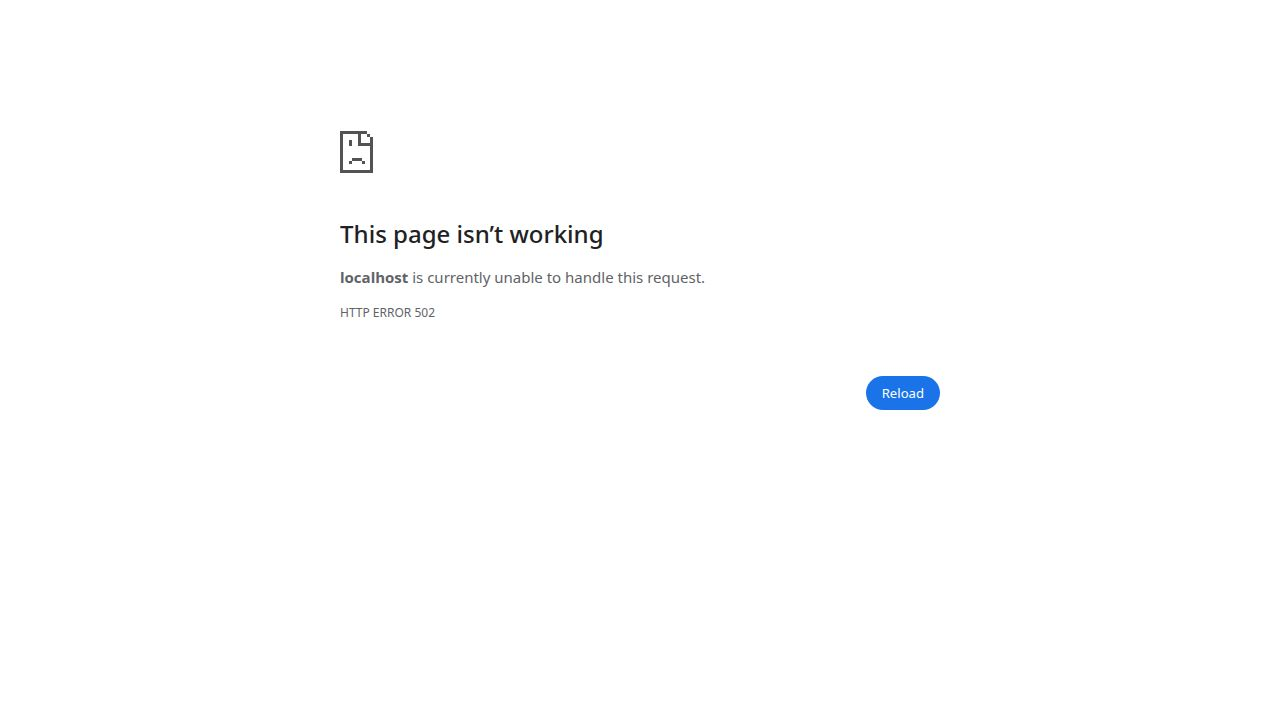
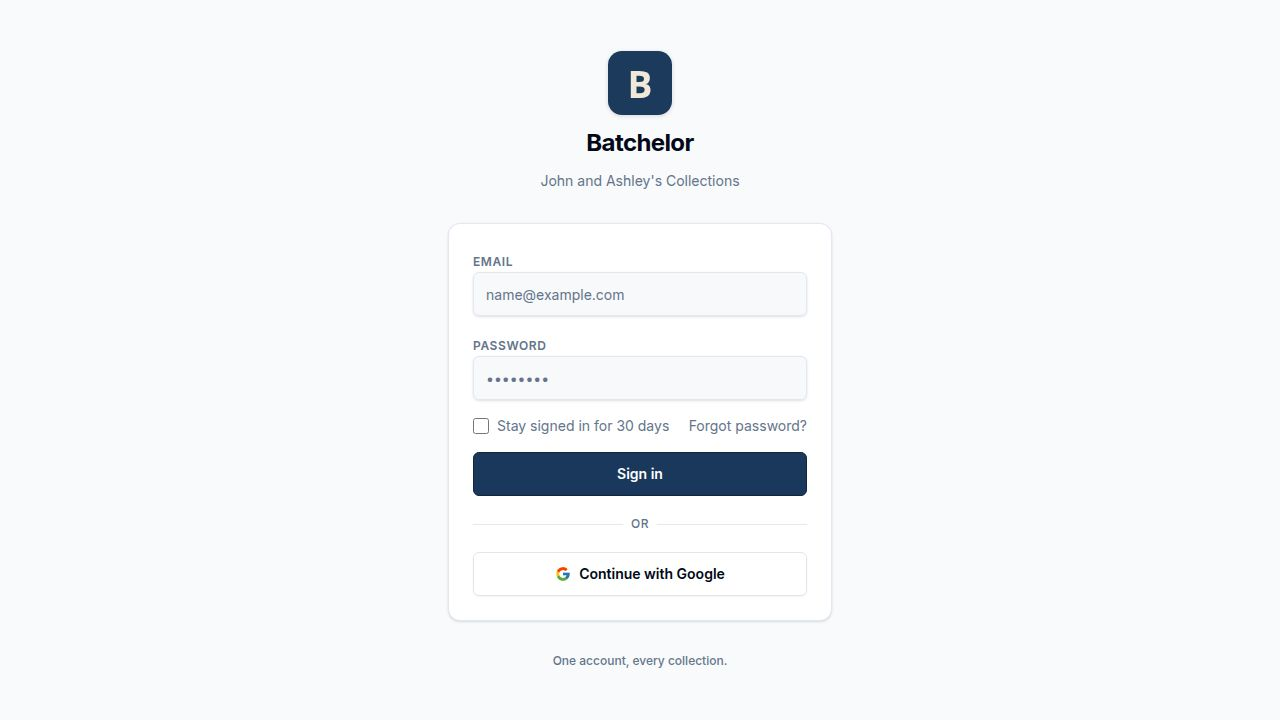
Sync Replit -> GitHub: reconcile AgentPhone/SMS feature and misc drift
GitHub main had fallen behind the Replit workspace (missing the AgentPhone
  SMS/voice integration: agentphone schema/routes, smsOptedOutAt column,
  agentphoneWebhookSecret config, world map + auth/app.ts updates, and a few
  other files). This reconciles GitHub main to match the current Replit
  working tree exactly for these paths so CI (Typecheck/Lint) reflects the
  real, current app state. No functional changes beyond bringing GitHub back
  in sync with what is already deployed/running in Replit.

diff --git a/artifacts/travels/src/pages/WorldMap.tsx b/artifacts/travels/src/pages/WorldMap.tsx
@@ -179,8 +179,6 @@ function MapPanel({
     if (!map || isLoading || !mapReady) return;
 
     let markers: google.maps.marker.AdvancedMarkerElement[] = [];
-    let arcs: google.maps.Polyline[] = [];
-    let animInterval: ReturnType<typeof setInterval> | null = null;
     let dataLayer: google.maps.Data | null = null;
     let infoWindow: google.maps.InfoWindow | null = null;
     let heatmapLayer: { setMap: (m: google.maps.Map | null) => void } | null =
@@ -347,68 +345,6 @@ function MapPanel({
           markers.push(marker);
         });
 
-      // ── Animated geodesic arcs between consecutive completed/booked trips ────
-      // Sort completed AND booked trips with coords chronologically, then
-      // connect each adjacent pair with an animated dashed polyline.
-      const completedWithCoords = trips
-        .filter(
-          (t) =>
-            (t.status === "completed" || t.status === "booked") &&
-            t.lat != null &&
-            t.lng != null &&
-            t.startDate,
-        )
-        .sort(
-          (a, b) =>
-            new Date(a.startDate!).getTime() - new Date(b.startDate!).getTime(),
-        );
-
-      if (completedWithCoords.length > 1) {
-        const arrowSymbol: google.maps.Symbol = {
-          path: google.maps.SymbolPath.FORWARD_OPEN_ARROW,
-          strokeOpacity: 0.85,
-          scale: 3,
-          strokeColor: "#2563eb",
-        };
-        for (let i = 0; i < completedWithCoords.length - 1; i++) {
-          const t1 = completedWithCoords[i]!;
-          const t2 = completedWithCoords[i + 1]!;
-          // Skip same-location consecutive trips (arc would collapse to a dot)
-          if (t1.lat === t2.lat && t1.lng === t2.lng) continue;
-          const arc = new google.maps.Polyline({
-            path: [
-              { lat: t1.lat!, lng: t1.lng! },
-              { lat: t2.lat!, lng: t2.lng! },
-            ],
-            geodesic: true,
-            strokeColor: "#2563eb",
-            strokeOpacity: 0,
-            strokeWeight: 2,
-            icons: [{ icon: arrowSymbol, offset: "0%", repeat: "20px" }],
-            map,
-          });
-          arcs.push(arc);
-        }
-
-        // Animate: cycle the icon offset to make the dashes flow
-        if (arcs.length > 0) {
-          let count = 0;
-          animInterval = setInterval(() => {
-            count = (count + 1) % 200;
-            const pct = `${(count / 2).toFixed(1)}%`;
-            arcs.forEach((arc) => {
-              const icons = arc.get("icons") as
-                | google.maps.IconSequence[]
-                | undefined;
-              if (icons && icons[0]) {
-                icons[0].offset = pct;
-                arc.set("icons", icons);
-              }
-            });
-          }, 30);
-        }
-      }
-
       // ── HeatmapLayer — density of completed/booked destinations ──────────────
       // Loaded asynchronously so it doesn't block marker rendering. Each visited
       // location contributes one data point per trip, so repeat-visit cities
@@ -479,9 +415,6 @@ function MapPanel({
       return () => {
         heatmapCancelled = true;
         heatmapLayer?.setMap(null);
-        if (animInterval != null) clearInterval(animInterval);
-        arcs.forEach((a) => a.setMap(null));
-        arcs = [];
         dataLayer?.setMap(null);
         markers.forEach((m) => (m.map = null));
         markers = [];
@@ -495,8 +428,6 @@ function MapPanel({
       );
       return () => {
         heatmapLayer?.setMap(null);
-        if (animInterval != null) clearInterval(animInterval);
-        arcs.forEach((a) => a.setMap(null));
         dataLayer?.setMap(null);
         markers.forEach((m) => (m.map = null));
         infoWindow?.close();

diff --git a/lib/db/src/schema-statements.ts b/lib/db/src/schema-statements.ts
@@ -1019,6 +1019,28 @@ export const STATEMENTS: string[] = [
   `ALTER TABLE phone_verification_codes ENABLE ROW LEVEL SECURITY`,
   `CREATE INDEX IF NOT EXISTS phone_verification_codes_user_id_idx ON phone_verification_codes (user_id)`,
 
+  // A2P 10DLC compliance: set when this number replies STOP/STOPALL/
+  // UNSUBSCRIBE/CANCEL/END/QUIT via the AgentPhone webhook; cleared on
+  // START/UNSTOP/YES. Every outbound SMS send path must skip a set number.
+  `ALTER TABLE app_users ADD COLUMN IF NOT EXISTS sms_opted_out_at TIMESTAMPTZ`,
+
+  // ── AgentPhone webhook (SMS/voice) — rolling conversation + dedup log ──────
+  `CREATE TABLE IF NOT EXISTS agentphone_conversations (
+    id           SERIAL PRIMARY KEY,
+    phone_number TEXT NOT NULL UNIQUE,
+    user_id      INTEGER NOT NULL,
+    messages     JSONB NOT NULL DEFAULT '[]'::jsonb,
+    updated_at   TIMESTAMPTZ NOT NULL DEFAULT NOW()
+  )`,
+  `ALTER TABLE agentphone_conversations ENABLE ROW LEVEL SECURITY`,
+  `CREATE TABLE IF NOT EXISTS agentphone_webhook_deliveries (
+    id          TEXT PRIMARY KEY,
+    received_at TIMESTAMPTZ NOT NULL DEFAULT NOW()
+  )`,
+  `ALTER TABLE agentphone_webhook_deliveries ENABLE ROW LEVEL SECURITY`,
+  `CREATE INDEX IF NOT EXISTS agentphone_webhook_deliveries_received_at_idx
+     ON agentphone_webhook_deliveries (received_at)`,
+
   // travels_reminders.sms_recipient_user_ids: app_users.id values (must have a
   // verified phone number) who should also get an SMS alert for this
   // reminder, alongside/instead of the email recipients above.

diff --git a/artifacts/api-server/src/routes/auth.ts b/artifacts/api-server/src/routes/auth.ts
@@ -36,7 +36,11 @@ import {
   sendTestEmail,
   resendConfigured,
 } from "../lib/email";
-import { sendSms, SmsRegistrationPendingError } from "../lib/sms";
+import {
+  sendSms,
+  SmsRegistrationPendingError,
+  SmsOptedOutError,
+} from "../lib/sms";
 import { runReminderAlerts } from "../lib/reminder-scheduler";
 
 const LOGIN_PATH = "/login";
@@ -365,6 +369,13 @@ router.post(
         });
         return;
       }
+      if (err instanceof SmsOptedOutError) {
+        res.status(409).json({
+          error:
+            "This phone number has opted out of texts (replied STOP). Reply START from that phone to resubscribe before verifying it.",
+        });
+        return;
+      }
       res.status(500).json({
         error: "Could not send the verification code. Please try again.",
       });
@@ -494,6 +505,13 @@ router.post(
         res.status(503).json({
           error:
             "SMS sending isn't enabled yet — AgentPhone's carrier (10DLC) registration is still pending. Your phone number is verified and ready; this will start working once registration completes.",
+        });
+        return;
+      }
+      if (err instanceof SmsOptedOutError) {
+        res.status(409).json({
+          error:
+            "This phone number has opted out of texts (replied STOP). Reply START from that phone to resubscribe.",
         });
         return;
       }

diff --git a/artifacts/api-server/src/app.ts b/artifacts/api-server/src/app.ts
@@ -40,6 +40,17 @@ app.use(
 );
 
 app.use("/api/quilting/blocks/detect-seams", express.json({ limit: "5mb" }));
+// AgentPhone webhook signatures are HMAC'd over the raw request body, so the
+// exact bytes must be captured before body-parser reformats them as JSON.
+app.use(
+  "/api/agentphone/webhook",
+  express.json({
+    limit: "64kb",
+    verify: (req, _res, buf) => {
+      (req as Request & { rawBody?: Buffer }).rawBody = Buffer.from(buf);
+    },
+  }),
+);
 app.use(express.json({ limit: "16kb" }));
 app.use(express.urlencoded({ extended: true, limit: "16kb" }));
 app.use(cookieParser(env.sessionSecret));

diff --git a/artifacts/quilting/src/pages/blocks/designer.tsx b/artifacts/quilting/src/pages/blocks/designer.tsx
@@ -101,7 +101,10 @@ import {
   getGetBlockQueryKey,
   useListFabrics,
 } from "@workspace/api-client-react";
-import type { QuiltingCategory, QuiltingBlock } from "@workspace/api-client-react";
+import type {
+  QuiltingCategory,
+  QuiltingBlock,
+} from "@workspace/api-client-react";
 import { TagSelector } from "@/components/tag-selector";
 import { cn } from "@/lib/utils";
 import { useQueryClient } from "@tanstack/react-query";
@@ -4037,9 +4040,7 @@ export default function BlockDesigner() {
       {templateMode && (
         <div className="flex shrink-0 items-center gap-2 border-b bg-muted/10 px-3 py-1.5">
           <Tag className="h-3.5 w-3.5 shrink-0 text-muted-foreground" />
-          <Label className="shrink-0 text-xs text-muted-foreground">
-            Tags
-          </Label>
+          <Label className="shrink-0 text-xs text-muted-foreground">Tags</Label>
           <Input
             value={templateTagsInput}
             onChange={(e) => setTemplateTagsInput(e.target.value)}

diff --git a/artifacts/api-server/src/lib/env.ts b/artifacts/api-server/src/lib/env.ts
@@ -31,4 +31,9 @@ export const env = {
   // if both are somehow set there (see routes/dev-screenshot-login.ts).
   screenshotAuthToken: optional("SCREENSHOT_AUTH_TOKEN"),
   agentLoginEmail: optional("AGENT_LOGIN_EMAIL"),
+  // Shared secret from AgentPhone's webhook configuration screen, used to
+  // verify the HMAC signature on inbound `/api/agentphone/webhook` requests.
+  // Optional at the env layer so the rest of the app boots fine without it —
+  // the webhook route itself returns 503 until this is set.
+  agentphoneWebhookSecret: optional("AGENTPHONE_WEBHOOK_SECRET"),
 };

diff --git a/lib/db/src/schema/users.ts b/lib/db/src/schema/users.ts
@@ -42,6 +42,11 @@ export const appUsers = pgTable("app_users", {
   // Required evidence for carrier campaign registration — never inferred,
   // only ever set by the send-code endpoint after `consent === true`.
   smsConsentAt: timestamp("sms_consent_at", { withTimezone: true }),
+  // A2P 10DLC compliance: set when this number replies STOP/STOPALL/
+  // UNSUBSCRIBE/CANCEL/END/QUIT to the AgentPhone webhook. While set, every
+  // outbound SMS send path (verification code, test SMS, reminder alerts)
+  // must skip this number. Cleared when the number replies START/UNSTOP/YES.
+  smsOptedOutAt: timestamp("sms_opted_out_at", { withTimezone: true }),
   createdAt: timestamp("created_at", { withTimezone: true })
     .defaultNow()
     .notNull(),

diff --git a/artifacts/api-server/src/routes/index.ts b/artifacts/api-server/src/routes/index.ts
@@ -9,6 +9,7 @@ import devScreenshotLoginRouter from "./dev-screenshot-login";
 import elaineRouter from "../elaine";
 import gmailRouter from "./gmail";
 import searchRouter from "./search";
+import agentphoneRouter from "./agentphone";
 
 const router: IRouter = Router();
 
@@ -21,6 +22,7 @@ router.use("/quilting", quiltingRouter);
 router.use("/travels", travelsRouter);
 router.use("/gmail", gmailRouter);
 router.use("/elaine", elaineRouter);
+router.use("/agentphone", agentphoneRouter);
 router.use(hubRouter);
 
 export default router;

diff --git a/lib/db/src/schema/index.ts b/lib/db/src/schema/index.ts
@@ -4,3 +4,4 @@ export * from "./quilting";
 export * from "./travels";
 export * from "./elaine";
 export * from "./gmail";
+export * from "./agentphone";

diff --git a/threat_model.md b/threat_model.md
@@ -15,6 +15,7 @@ The travels app also includes an opt-in Gmail scanning feature: each household m
 - **Application secrets** — Supabase service-role key, database credentials, session secret, OAuth client secrets, Resend credentials, and AI provider keys. Server-side secret compromise would expose all tenant data and storage.
 - **AI-backed compute and outbound integrations** — OpenAI/OpenRouter/Jina/Voyage calls, password-reset email delivery, Google OAuth exchanges, RSS fetching, and any server-side URL fetching. Abuse can create quota burn, SSRF-style internal access, or confidentiality leaks through third-party requests.
 - **Gmail OAuth tokens and inbox content** — per-user Gmail refresh/access tokens (`gmail.readonly` + `gmail.labels` scopes, separate grant from Calendar), plus any email subject/body/attachment content fetched during auto-scan or manual browsing. Compromise would expose a user's personal inbox contents, allow continued read access until the grant is revoked, and allow creation/application of the two server-managed labels ("Travel", "Batchelor App") on the user's own messages; leakage across users would violate the single-owner Gmail access guarantee even though trips are household-shared.
+- **AgentPhone webhook secret and SMS/voice channel** — a shared HMAC secret (`AGENTPHONE_WEBHOOK_SECRET`) authenticates inbound `agent.message` events for the household's one provisioned SMS/voice number. Compromise of the secret would let an attacker forge inbound messages/calls and reach the restricted Elaine action executor as an arbitrary phone-matched household member. The webhook also grants Elaine a narrow, non-destructive write capability over trips/reminders/packing lists purely from an unauthenticated phone channel (authenticated only by possession of a recognized phone number plus the shared webhook secret) — a materially weaker identity proof than the session-cookie login used everywhere else in the app.
 
 ## Trust Boundaries
 
@@ -27,12 +28,13 @@ The travels app also includes an opt-in Gmail scanning feature: each household m
 - **Household-sharing boundary** — pottery, quilting, and travels all intentionally expose shared household data across every authenticated user (full read/write/delete, not just read). Within travels this now explicitly includes trips, wishlist entries, photos, reminders, trip documents, custom document types, and calendar-derived trip suggestions (`travels_calendar_trip_suggestions`) — a suggestion sourced from one member's personal calendar scan is visible/dismissible/acceptable by any household member, since the suggestion itself is trip data, not the calendar connection. This shared-access model does not relax protections at the boundary itself: routes must still require a valid authenticated session (no unauthenticated access), storage objects must still be fetched only through server-side authenticated handlers, and OAuth tokens/connections (Google Calendar, Gmail) plus purely personal UI state (dashboard card layout/collapse prefs, account settings) remain single-owner and are never widened to household-shared even though the trip/collection data they relate to is shared. "Household-shared" means shared _among authenticated household accounts_, never shared with unauthenticated requests.
 - **Dev-only to production boundary** — `artifacts/mockup-sandbox/`, build outputs, and local tooling are out of production scope unless explicitly wired into the deployed artifact.
 - **API to Gmail** — the server holds per-user Gmail OAuth tokens and calls the Gmail API (search/fetch messages, fetch attachments, list/create/apply labels) on the connecting user's behalf. This boundary must never let one user's session or trip fetch another user's Gmail data, must validate OAuth state/tokens the same way as the existing Calendar grant, must not let inbox content (subjects/snippets/attachments) leak into another user's suggestions, logs, or AI prompts beyond what's needed for extraction, and the label-write capability must remain scoped to only the two server-managed labels on the connecting user's own messages — never message deletion/trash/content modification, and never triggered by anything other than the user's own explicit confirmation of an AI suggestion.
+- **AgentPhone to API** (`/api/agentphone/webhook`) — this is the only mounted route in the app that authenticates a request by something other than a session cookie or OAuth token: it trusts an HMAC-SHA256 signature (`X-Webhook-Signature: sha256=<hex>` over `{X-Webhook-Timestamp}.{raw body}`, keyed by `AGENTPHONE_WEBHOOK_SECRET`) plus a timestamp freshness check (rejects requests older than 5 minutes) and per-delivery dedup (`X-Webhook-ID`, recorded in `agentphone_webhook_deliveries` before any side effect, so a redelivered webhook is a no-op). Signature verification must run on the exact raw request bytes (captured via a path-scoped `express.json({verify})` mounted before the app-wide body parser), not a re-serialized body, or a byte-for-byte-different-but-semantically-equal payload could bypass the HMAC check. The webhook maps inbound SMS/voice to a household member purely by matching the caller's phone number against `app_users.phone_number` — there is no further per-message authentication, so this phone-number match is the full identity boundary for this channel; an unrecognized number gets no reply (SMS) or an immediate decline+hangup (voice) rather than any household data. Once matched, the webhook hands the message to a **restricted** Elaine turn (`runAgentphoneTurn`, `auto_run` mode) whose tool set is a hard allowlist of non-destructive travel actions (add/edit reminder, sync reminder to calendar, add/remove packing item, update trip status) — it must never gain access to the full in-app Elaine tool set (email sending, web search, document/photo actions, destructive deletes) without a deliberate, reviewed allowlist change. STOP/HELP/START (10DLC) keyword handling must run before any Elaine turn and must work for every inbound message regardless of phone-number recognition or current opt-out state, since it is a carrier compliance requirement, not an app feature.
 
 ## Scan Anchors
 
 - **Production entry points**: `artifacts/api-server/src/index.ts`, `artifacts/api-server/src/app.ts`, `artifacts/api-server/src/routes/**`
-- **Highest-risk code areas**: shared auth/session/password-reset flow, authentication enforcement on pottery/quilting/travels routes (all data is household-shared, not per-owner — the risk is unauthenticated access, not cross-account access), private image/storage access, AI-assisted import/analysis routes, hub RSS fetching, any raw SQL or external fetch logic, and Gmail OAuth/token storage + message/attachment fetching (which remain single-owner even though pottery/quilting/travels data is shared)
-- **Public surfaces**: `/api/healthz`, `/api/auth/login`, `/api/auth/forgot-password`, `/api/auth/reset-password`, `/api/auth/google`, `/api/auth/google/callback`, `/api/auth/providers`
+- **Highest-risk code areas**: shared auth/session/password-reset flow, authentication enforcement on pottery/quilting/travels routes (all data is household-shared, not per-owner — the risk is unauthenticated access, not cross-account access), private image/storage access, AI-assisted import/analysis routes, hub RSS fetching, any raw SQL or external fetch logic, Gmail OAuth/token storage + message/attachment fetching (which remain single-owner even though pottery/quilting/travels data is shared), and the AgentPhone webhook signature/replay verification plus its restricted-action allowlist (`artifacts/api-server/src/routes/agentphone.ts`, `runAgentphoneTurn` in `artifacts/api-server/src/elaine/index.ts`)
+- **Public surfaces**: `/api/healthz`, `/api/auth/login`, `/api/auth/forgot-password`, `/api/auth/reset-password`, `/api/auth/google`, `/api/auth/google/callback`, `/api/auth/providers`, `/api/agentphone/webhook` (unauthenticated by session, but signature-gated — see the AgentPhone trust boundary above)
 - **Authenticated surfaces**: `/api/pottery/**`, `/api/quilting/**`, `/api/travels/**` (including `/api/travels/gmail/**` and `/api/travels/settings`), `/api/hub/**`, `/api/auth/me`, `/api/auth/change-password`
 - **Usually dev-only**: `artifacts/mockup-sandbox/**`, generated `dist/**`, repo tooling/scripts unless they are reachable through deployed API behavior
 
@@ -40,20 +42,20 @@ The travels app also includes an opt-in Gmail scanning feature: each household m
 
 ### Spoofing
 
-The application relies on session cookies and shared account records to identify users across both apps. All protected endpoints must require a valid server-side session, session identifiers must be regenerated on login, OAuth callbacks must validate anti-CSRF state and Google ID tokens, and password-reset flows must not allow attackers to impersonate users through token reuse or enumeration. The Gmail OAuth flow follows the same pattern as Calendar: the `/api/travels/gmail/connect` → `/callback` round trip must validate a signed, single-use state cookie before exchanging the authorization code, so an attacker cannot force-link their own Gmail grant onto a victim's session (CSRF) or replay a stale callback.
+The application relies on session cookies and shared account records to identify users across both apps. All protected endpoints must require a valid server-side session, session identifiers must be regenerated on login, OAuth callbacks must validate anti-CSRF state and Google ID tokens, and password-reset flows must not allow attackers to impersonate users through token reuse or enumeration. The Gmail OAuth flow follows the same pattern as Calendar: the `/api/travels/gmail/connect` → `/callback` round trip must validate a signed, single-use state cookie before exchanging the authorization code, so an attacker cannot force-link their own Gmail grant onto a victim's session (CSRF) or replay a stale callback. The AgentPhone webhook has no session at all, so spoofing there means forging a request AgentPhone never sent: every request must pass HMAC signature verification over the raw body plus a bounded timestamp window (rejects requests older than 5 minutes) before any household data is touched, and a valid signature with a reused `X-Webhook-ID` must be a no-op rather than reprocessed (replay). A caller who passes signature verification is still only ever treated as the household member matching the inbound phone number — there is no additional per-message identity claim to spoof beyond that number match.
 
 ### Tampering
 
-Users can submit structured JSON, uploaded images, route parameters, and externally hosted URLs that influence stored records and AI-generated metadata. The server must validate all request bodies with strict schemas and require a valid authenticated session on every read/write/delete path for pottery, quilting, and travels data — by design, any authenticated household member may create, edit, or delete any record in these apps (there is no per-user ownership check to enforce), so the control that matters is authentication, not authorization-by-owner. Storage paths or AI-derived fields must not be usable to tamper with unrelated data outside the intended tables/buckets. Gmail message IDs, dismiss/link/ignore actions, and timezone values submitted by the client must be validated and scoped to the requesting user's own Gmail connection/decisions before any write — this remains single-owner even though the resulting trip data is shared.
+Users can submit structured JSON, uploaded images, route parameters, and externally hosted URLs that influence stored records and AI-generated metadata. The server must validate all request bodies with strict schemas and require a valid authenticated session on every read/write/delete path for pottery, quilting, and travels data — by design, any authenticated household member may create, edit, or delete any record in these apps (there is no per-user ownership check to enforce), so the control that matters is authentication, not authorization-by-owner. Storage paths or AI-derived fields must not be usable to tamper with unrelated data outside the intended tables/buckets. Gmail message IDs, dismiss/link/ignore actions, and timezone values submitted by the client must be validated and scoped to the requesting user's own Gmail connection/decisions before any write — this remains single-owner even though the resulting trip data is shared. AgentPhone SMS/voice input (free-text message body or voice transcript) is untrusted content reaching the restricted Elaine turn; the tampering control here is the tool allowlist itself (`AGENTPHONE_ACTION_TYPES`) — the model may only invoke a fixed, non-destructive set of travel actions (add/edit reminder, sync-to-calendar, add/remove packing item, update trip status), never delete/send-email/document/photo actions, regardless of what the inbound text asks for.
 
 ### Information Disclosure
 
-This project stores collection data, travel documents, and object-storage images behind authenticated API routes, while also holding high-value server secrets for Supabase and AI providers. Pottery and quilting records are intentionally visible to every authenticated household member — there is no "other user's private record" concept within these apps — so the disclosure risk to guard against is exposure to _unauthenticated_ requests, not cross-account exposure within the household. API responses, image/document download handlers, logs, and third-party integration calls must never expose secrets, raw password-reset artifacts, private bucket contents to unauthenticated callers, or OAuth/calendar/Gmail tokens. Public routes must avoid account enumeration and verbose error leakage. Gmail access tokens/refresh tokens must never be returned in API responses, and every Gmail read (status, inbox search, message fetch, attachment fetch, suggestions) must use only the requesting user's own stored token — never another household member's — even though the resulting trip suggestion may itself be linked to a shared trip.
+This project stores collection data, travel documents, and object-storage images behind authenticated API routes, while also holding high-value server secrets for Supabase and AI providers. Pottery and quilting records are intentionally visible to every authenticated household member — there is no "other user's private record" concept within these apps — so the disclosure risk to guard against is exposure to _unauthenticated_ requests, not cross-account exposure within the household. API responses, image/document download handlers, logs, and third-party integration calls must never expose secrets, raw password-reset artifacts, private bucket contents to unauthenticated callers, or OAuth/calendar/Gmail tokens. Public routes must avoid account enumeration and verbose error leakage. Gmail access tokens/refresh tokens must never be returned in API responses, and every Gmail read (status, inbox search, message fetch, attachment fetch, suggestions) must use only the requesting user's own stored token — never another household member's — even though the resulting trip suggestion may itself be linked to a shared trip. The webhook route (`/api/agentphone/webhook`) must never echo `AGENTPHONE_WEBHOOK_SECRET`, another household member's phone number, or full Gmail/OAuth token values back into an SMS reply or voice `{text}` response, and error responses on signature failure must stay generic (no hints about why verification failed) to avoid helping an attacker iterate toward a forged signature.
 
 ### Denial of Service
 
-The API accepts login attempts, image uploads, image-derived AI analysis, bulk re-analysis, RSS fetching, and server-side URL imports, all of which can be abused for cost amplification or resource exhaustion. Public and authenticated expensive endpoints must be rate-limited at the deployment boundary, upload sizes and image expansion must be bounded, and outbound network requests must use strict timeouts, redirect controls, destination validation, and content limits. Gmail auto-scan and AI extraction add another cost-amplification surface (Gmail API calls plus per-message AI extraction calls); scans must be bounded (page size/time window), avoid unbounded re-scanning of already-decided messages, and manual inbox search/fetch must not allow arbitrarily large or repeated result sets to drive excessive Gmail API or AI usage. The bulk-link endpoint (`POST /gmail/messages/bulk-link`) amplifies this further by fanning one request out into N per-message Gmail fetches + AI extraction + document creations, and (when a message has multiple attachments) N-times-attachment-count document writes; it must stay capped by a fixed per-request max message count (currently 25) and must not be reachable with an unbounded or user-controlled batch size.
+The API accepts login attempts, image uploads, image-derived AI analysis, bulk re-analysis, RSS fetching, and server-side URL imports, all of which can be abused for cost amplification or resource exhaustion. Public and authenticated expensive endpoints must be rate-limited at the deployment boundary, upload sizes and image expansion must be bounded, and outbound network requests must use strict timeouts, redirect controls, destination validation, and content limits. Gmail auto-scan and AI extraction add another cost-amplification surface (Gmail API calls plus per-message AI extraction calls); scans must be bounded (page size/time window), avoid unbounded re-scanning of already-decided messages, and manual inbox search/fetch must not allow arbitrarily large or repeated result sets to drive excessive Gmail API or AI usage. The bulk-link endpoint (`POST /gmail/messages/bulk-link`) amplifies this further by fanning one request out into N per-message Gmail fetches + AI extraction + document creations, and (when a message has multiple attachments) N-times-attachment-count document writes; it must stay capped by a fixed per-request max message count (currently 25) and must not be reachable with an unbounded or user-controlled batch size. The AgentPhone webhook is a per-message AI-completion cost-amplification surface reachable without a session: the request body is capped at 64kb, the restricted Elaine turn is capped at 3 tool-call rounds, and conversation history persisted per phone number is capped at 20 messages — even a signature-valid but abusive sender (e.g. a compromised secret, or AgentPhone itself misbehaving) cannot drive unbounded per-request cost or unbounded stored state growth.
 
 ### Elevation of Privilege
 
-The highest-likelihood privilege failure here is an authentication bypass that lets an unauthenticated request reach pottery/quilting/travels data — since these apps are fully household-shared by design, there is no per-owner boundary to violate _within_ an authenticated household account, so `requireAuth` (or equivalent session checks) on every route is the control that matters, not per-row ownership filters. The remaining elevation risks are SSRF or injection flaws that let an authenticated user pivot into server-side capabilities beyond the shared-data model (e.g. reaching another user's single-owner Gmail/Calendar tokens, internal network destinations, or raw SQL injection). Raw SQL must remain parameterized, and any server-side fetch or redirect logic must reject internal destinations and untrusted authority changes. Gmail-specific: connection lookups, decisions (dismiss/link/ignore/reconsider), and disconnect must all filter by the session user's own `userId`, never by trip or household membership, since Gmail access itself must remain single-owner even where the resulting trip data is shared. The reconsider endpoint (`POST /gmail/messages/:messageId/reconsider`) reverses a prior ignore/dismiss decision and must only ever touch the requesting user's own decision row (scoped by `userId` + `gmailMessageId`), must reject reconsidering an already-linked message (409), and must 404 when no matching decision exists — it must never be usable to reset or discover another user's decision state. Label management inherits the same constraint: label IDs are cached per-connection row and every `labels.list`/`create`/`modify` call must use the requesting user's own access token, never a token or label ID belonging to another connection.
+The highest-likelihood privilege failure here is an authentication bypass that lets an unauthenticated request reach pottery/quilting/travels data — since these apps are fully household-shared by design, there is no per-owner boundary to violate _within_ an authenticated household account, so `requireAuth` (or equivalent session checks) on every route is the control that matters, not per-row ownership filters. The remaining elevation risks are SSRF or injection flaws that let an authenticated user pivot into server-side capabilities beyond the shared-data model (e.g. reaching another user's single-owner Gmail/Calendar tokens, internal network destinations, or raw SQL injection). Raw SQL must remain parameterized, and any server-side fetch or redirect logic must reject internal destinations and untrusted authority changes. Gmail-specific: connection lookups, decisions (dismiss/link/ignore/reconsider), and disconnect must all filter by the session user's own `userId`, never by trip or household membership, since Gmail access itself must remain single-owner even where the resulting trip data is shared. The reconsider endpoint (`POST /gmail/messages/:messageId/reconsider`) reverses a prior ignore/dismiss decision and must only ever touch the requesting user's own decision row (scoped by `userId` + `gmailMessageId`), must reject reconsidering an already-linked message (409), and must 404 when no matching decision exists — it must never be usable to reset or discover another user's decision state. Label management inherits the same constraint: label IDs are cached per-connection row and every `labels.list`/`create`/`modify` call must use the requesting user's own access token, never a token or label ID belonging to another connection. AgentPhone-specific: the restricted Elaine turn's tool set (`AGENTPHONE_ACTION_TOOLS`) must remain a strict subset of the full in-app Elaine tool set — any future addition to the shared `ACTION_TOOLS`/`ACTION_EXECUTORS` list must be deliberately opted into `AGENTPHONE_ACTION_TYPES`, never inherited by default, since an unattended phone-number match is a much weaker identity check than a logged-in session and must never be allowed to reach destructive or data-exfiltrating actions (delete, send-email, document/photo access). The 10DLC STOP/HELP/START keyword path must also never be reachable from within an Elaine tool call — it is a fixed, hardcoded branch that runs before the model sees the message, not a model-invokable action.

diff --git a/.agents/memory/agentphone-webhook-registration.md b/.agents/memory/agentphone-webhook-registration.md
@@ -1,0 +1,12 @@
+---
+name: AgentPhone webhook registration
+description: How to actually register an AgentPhone webhook and get its signing secret, plus the 10DLC gotcha that blocks outbound SMS afterward.
+---
+
+Registering a webhook is a real API call, not a dashboard-only step: `POST https://api.agentphone.ai/v1/webhooks` (not `https://agentphone.ai`, which is just the marketing site and returns HTML) with `Authorization: Bearer $AGENTPHONE_API_KEY` and body `{"url": "<public-webhook-url>"}`. The response body contains the HMAC signing secret (`secret` field, format `whsec_...`) needed for verifying inbound webhook signatures — there is no separate dashboard screen to copy it from; it only exists in this API response. `GET /v1/webhooks` returns the currently registered webhook (or `null`), useful to confirm registration without creating a duplicate.
+
+**Why:** the account owner's example curl used a placeholder root-domain URL; the real API lives on the `api.` subdomain and needed endpoint discovery via probing (`/v1/agents` also works and lists configured agents).
+
+**How to apply:** when wiring an AgentPhone webhook, register it once via this API call using the repl's public domain (`https://$REPLIT_DEV_DOMAIN/api/...` in dev), capture the returned secret, and have the user paste it into a requested secret via `requestEnvVar` (there's no way for the agent to set secret values directly).
+
+**Gotcha — 10DLC gates outbound SMS entirely:** even after the webhook is correctly registered and verified end-to-end (signature check, replay dedup, inbound routing all functional), outbound `sendSms` calls will fail with a 403 `"Outbound SMS is not enabled for this account. Complete 10DLC registration first."` until the AgentPhone account completes carrier 10DLC registration — this is an external, account-level approval process on AgentPhone's side, not a bug in the integration code. Inbound webhook processing (STOP/HELP/START, Elaine turns) still works and should be verified independently of outbound send success.

diff --git a/.agents/memory/github-sync-from-replit.md b/.agents/memory/github-sync-from-replit.md
@@ -77,3 +77,14 @@ a merge commit; never force-push to "fix" it.
   it's committed/pushed — not fixed reactively once GitHub Actions' Lint job
   fails. Recurred once already (2026-07-04, regenerated mockup-components.ts
   pushed unformatted, caught by CI, needed a follow-up fix-up commit).
+
+## Diff the sync against the working tree, not `git ls-tree HEAD`
+
+- When scripting a "resync GitHub to Replit's current state" pass, read local
+  file contents from the actual working tree (or `git status --porcelain` +
+  file reads), not from `git ls-tree -r HEAD` blobs. `HEAD` only reflects the
+  last local commit/checkpoint — any uncommitted fix made earlier in the same
+  session (e.g. a prettier `--write` pass) is silently absent from a
+  HEAD-sourced sync and gets dropped from the pushed commit. Caught this
+  2026-07-08: a sync built from `HEAD` blobs missed 2 just-reformatted files,
+  needed a follow-up commit with contents re-read from disk.